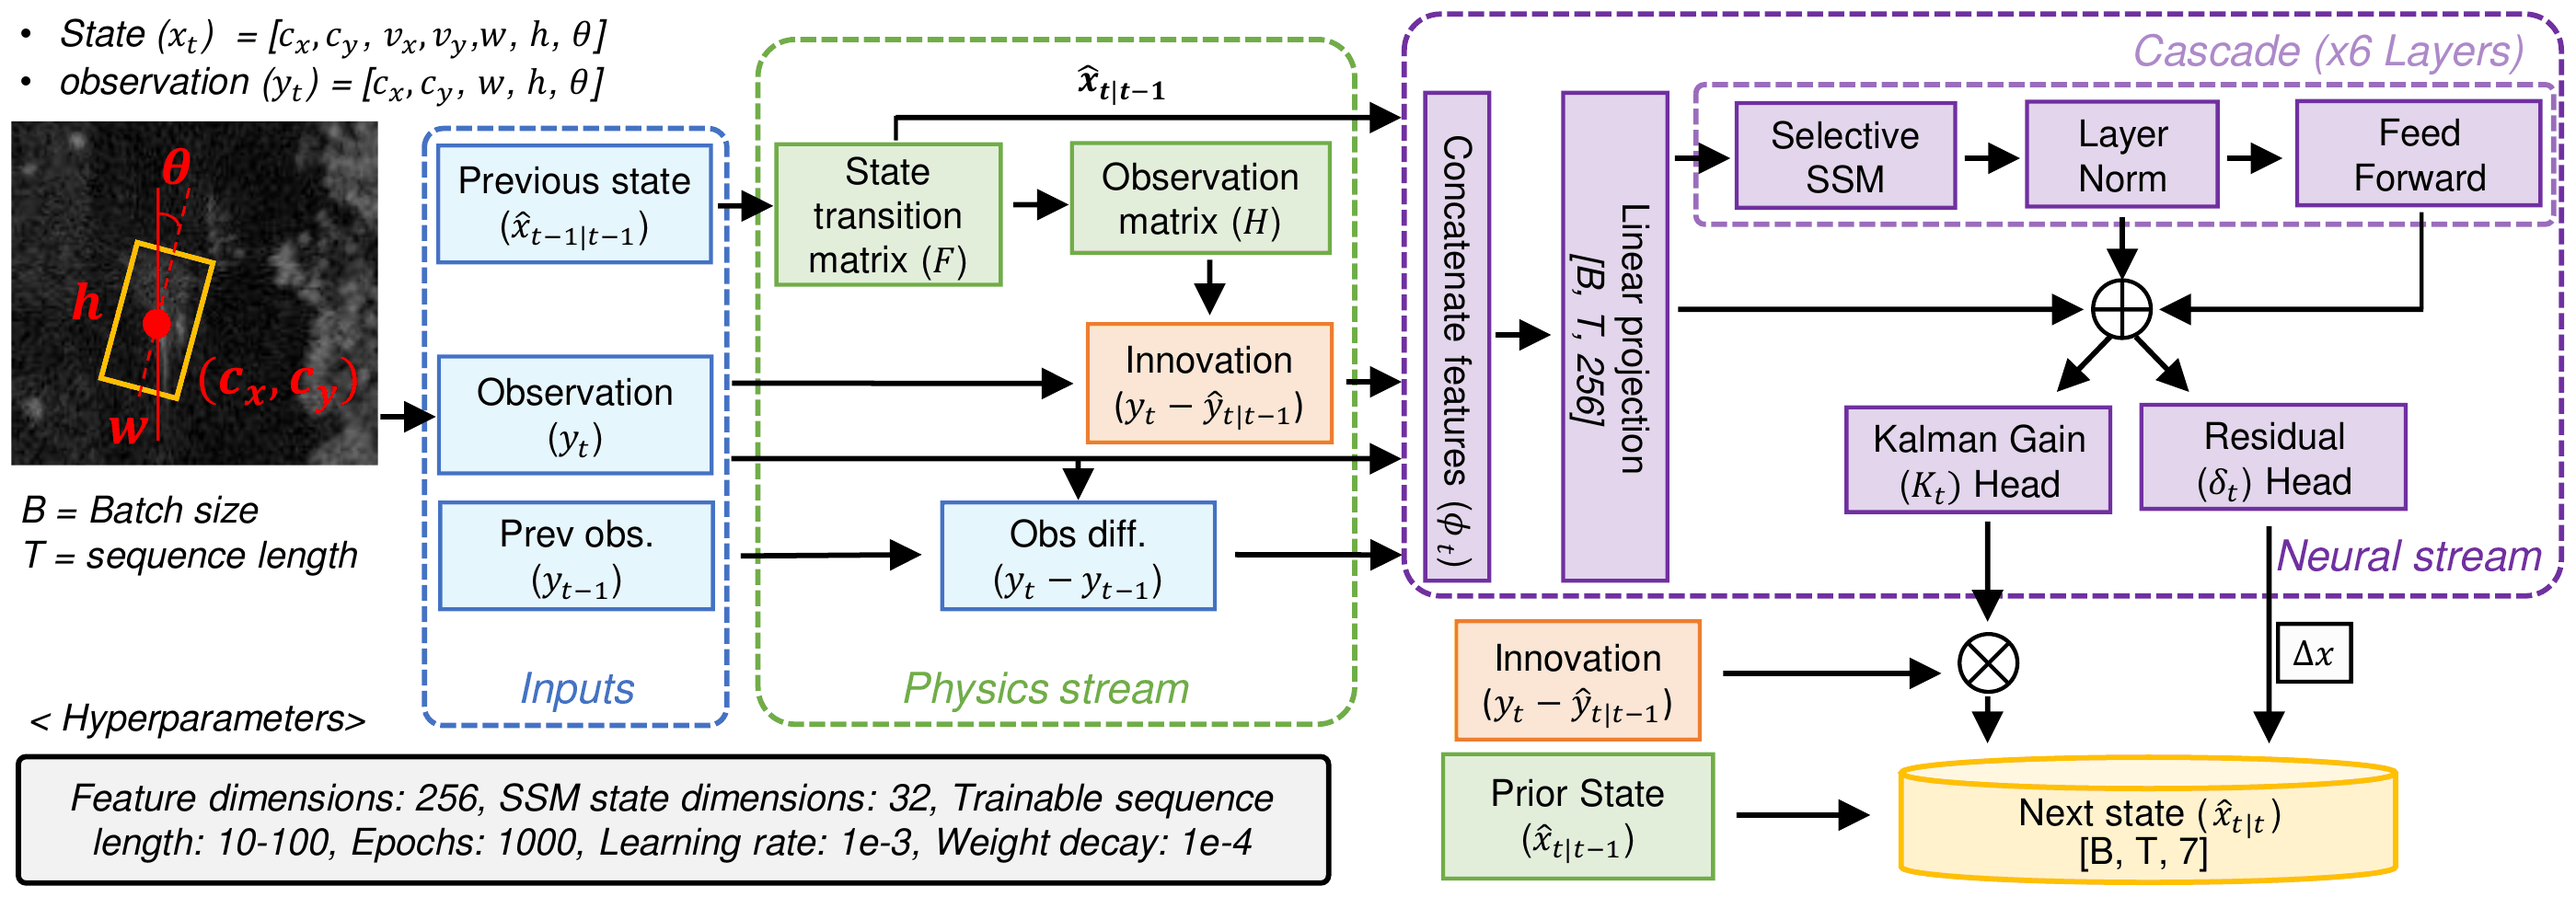
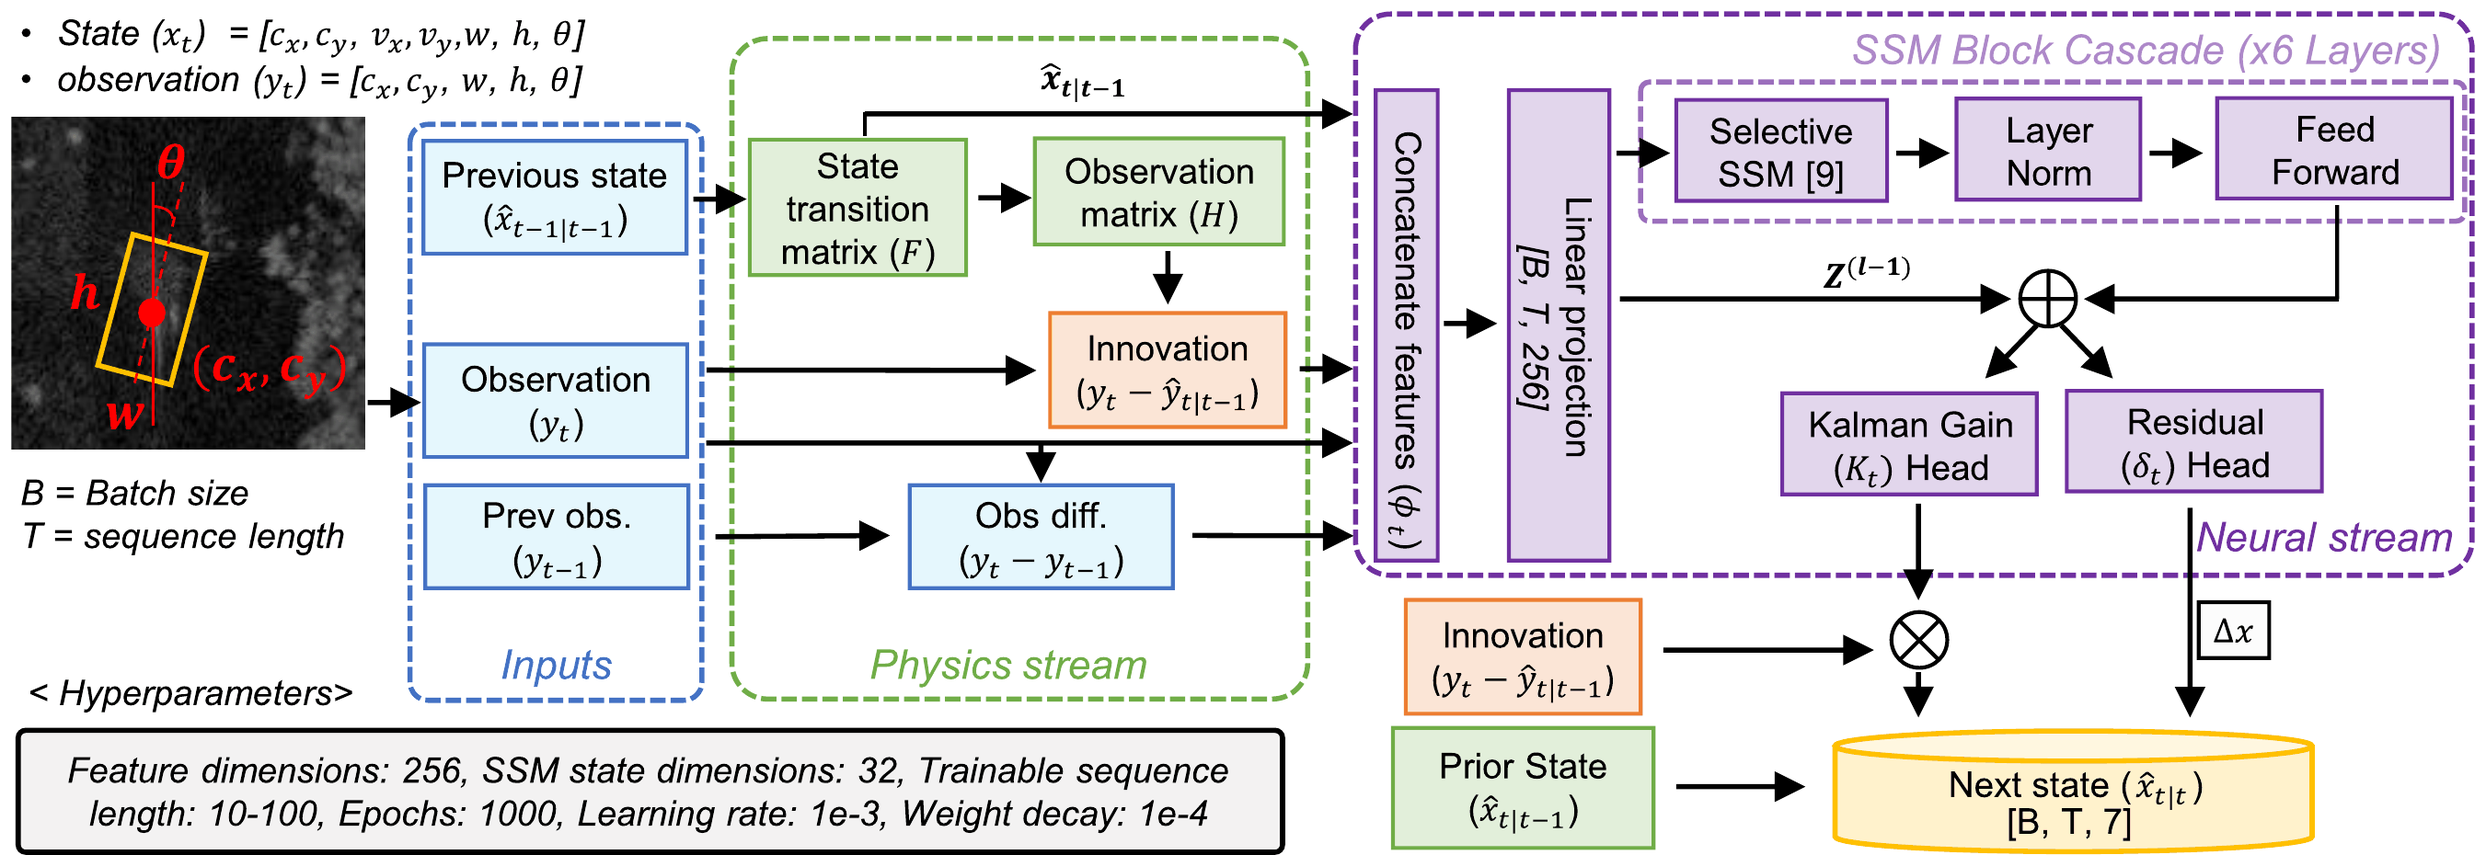
Match figure numbering, metric definition and timing GPU to the final paper
Rename the qualitative visualization script to fig5_visualize.py, define the 5-step MSE, correct the inference timing GPU, update the overview figure, and add a figure credit line.

diff --git a/scripts/fig5_visualize.py b/scripts/fig5_visualize.py
@@ -1,4 +1,4 @@
-"""Fig. 4: qualitative comparison on RADIATE radar frames.
+"""Fig. 5: qualitative comparison on RADIATE radar frames.
 
 Runs the models on every annotated object track (>= 10 frames) of a test sequence and draws the
 predicted rotated boxes on the Navtech_Cartesian radar images. Colours: GT green, KalmanNet red,
@@ -161,11 +161,11 @@ def visualize_sequence(sequence_path, models, device, output_dir, max_frames=Non
 
 
 def main():
-    parser = add_common_args(argparse.ArgumentParser(description='Fig. 4: draw predicted boxes on RADIATE radar frames'))
+    parser = add_common_args(argparse.ArgumentParser(description='Fig. 5: draw predicted boxes on RADIATE radar frames'))
     parser.set_defaults(models=['KalmanNet', 'SSMPhysics'])
     parser.add_argument('--test_seq_names', type=str, nargs='+', default=['city_7_0'],
-                        help='Test sequences to visualise (Fig. 4 uses city_7_0)')
-    parser.add_argument('--output_dir', type=str, default='./results/fig4')
+                        help='Test sequences to visualise (Fig. 5 uses city_7_0)')
+    parser.add_argument('--output_dir', type=str, default='./results/fig5')
     parser.add_argument('--max_frames', type=int, default=None, help='Visualise only the first N frames')
     parser.add_argument('--fps', type=int, default=10, help='Frame rate of the output video')
     args = parser.parse_args()

diff --git a/README.md b/README.md
@@ -5,6 +5,7 @@ This release includes the model architecture, training code, and clean-condition
 
 ## System architecture
 ![](assets/fig2_overview.png)
+*Figure from Park et al., IEEE IMS RFSA 2026.*
 
 - Physics stream: the known constant-velocity model (F, H) gives the kinematic prior and the innovation
 - Neural stream: a 6-layer selective SSM (Mamba-1) cascade processes the whole track window in parallel
@@ -27,7 +28,7 @@ data/radiate/train/  city_1_0 city_1_1 city_1_3 city_2_0 city_3_0 city_3_1 city_
                      night_1_0 night_1_2 night_1_3 night_1_5 rain_2_0
 data/radiate/test/   city_7_0 fog_6_0 junction_1_10 night_1_4 rain_4_0
 ```
-Only `annotations/annotations.json` is needed. Fig. 4 also needs `Navtech_Cartesian/`.
+Only `annotations/annotations.json` is needed. Fig. 5 also needs `Navtech_Cartesian/`.
 
 ### Checkpoints
 Download from the [v1.0 release](https://github.com/jpark3263/SSM_KF/releases/tag/v1.0):
@@ -47,8 +48,8 @@ python train/train_KNet.py --use_cuda          # KalmanNet baseline: 25 epochs, 
 python run.py --use_cuda                       # 10-frame tracks
 python run.py --use_cuda --seq_len 20          # 20-frame tracks
 
-# Fig. 4: predicted boxes on radar frames -> results/fig4/
-python scripts/fig4_visualize.py --use_cuda
+# Fig. 5: predicted boxes on radar frames -> results/fig5/
+python scripts/fig5_visualize.py --use_cuda
 ```
 
 ### Clean results (10-frame tracks, 1,169 test sequences)
@@ -58,9 +59,11 @@ python scripts/fig4_visualize.py --use_cuda
 | KalmanNet | 375,972 | −22.75 | −21.94 |
 | Selective SSM | 4,435,754 | **−28.21** | **−29.70** |
 
+5-step MSE: MSE over the last 5 frames of each window.
+
 The paper's clean KF MSE (8.84 dB) and its clean 5-step values (KF 21.53 dB, SSM −27.54 dB) were computed on 20-frame tracks. The KF MSE cell uses position-only MSE. `python run.py --seq_len 20` reproduces all three.
 
-The 10-frame results were reproduced on an NVIDIA RTX 6000; the 20-frame results on CPU with the pure-PyTorch layer. The software was PyTorch 2.9.1 and mamba-ssm 2.2.6.post3. Inference times depend on the hardware; the paper used an H100.
+The 10-frame results were reproduced on an NVIDIA RTX 6000; the 20-frame results on CPU with the pure-PyTorch layer. The software was PyTorch 2.9.1 and mamba-ssm 2.2.6.post3. Inference times depend on the hardware; the paper used an NVIDIA RTX 4060.
 
 ## Contact
 * Jinhyeok Park E-mail: jpark3263@gatech.edu
